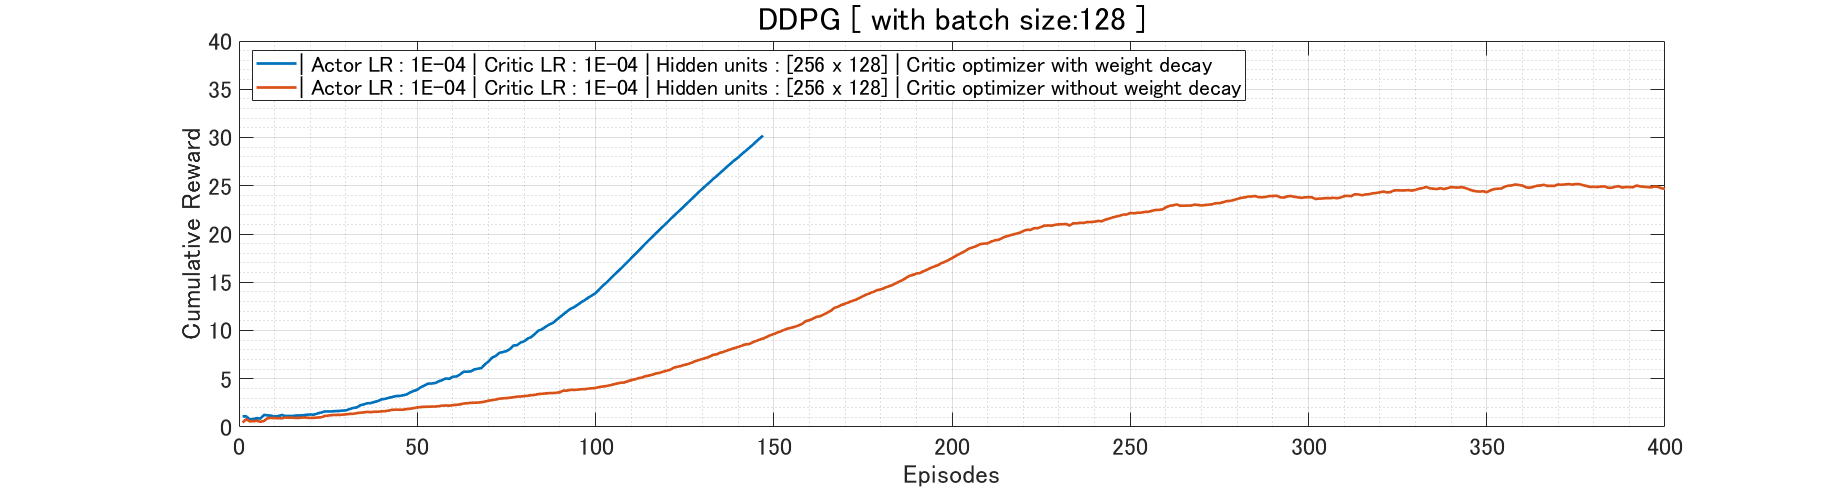
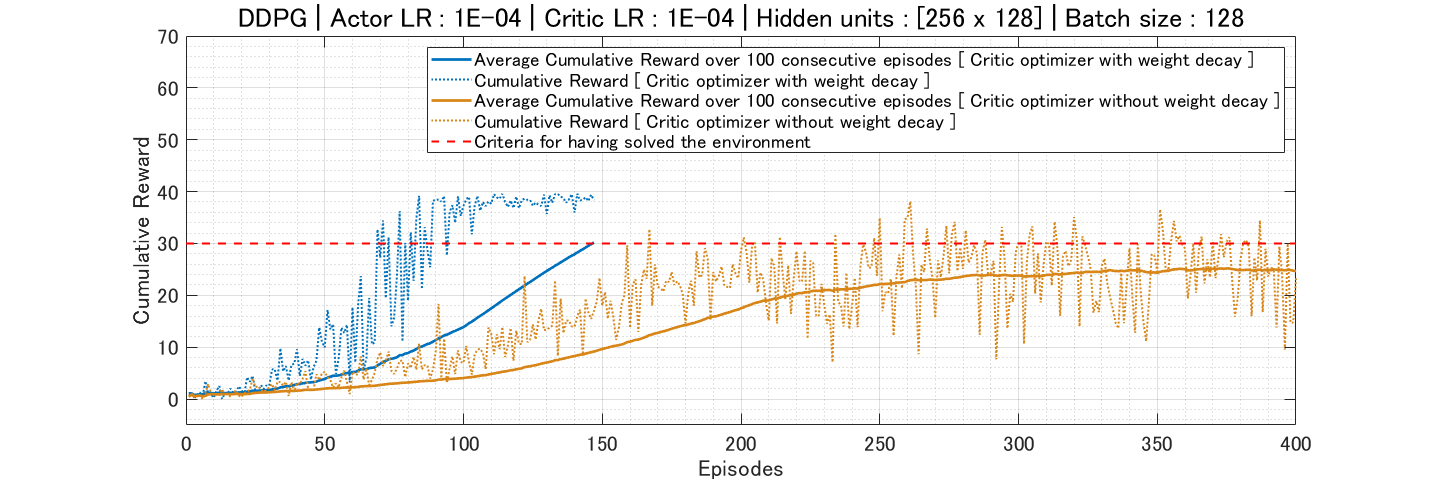
docs: Update documentation

Changed region(s): [[0.0922, 0.0, 0.9218, 1.0], [0.7374, 0.3125, 0.7682, 0.3438]]

diff --git a/DDPG/Reacher/README.md b/DDPG/Reacher/README.md
@@ -4,7 +4,12 @@
     <img src="https://user-images.githubusercontent.com/10624937/43851024-320ba930-9aff-11e8-8493-ee547c6af349.gif" height="250px">
 </p>
 
-[Reacher](https://github.com/Unity-Technologies/ml-agents/blob/master/docs/Learning-Environment-Examples.md#reacher) environment.
+## Description
+In this [environment](https://github.com/Unity-Technologies/ml-agents/blob/master/docs/Learning-Environment-Examples.md#reacher), a double-jointed arm can move to target locations. A reward of +0.1 is provided for each step that the agent's hand is in the goal location. Thus, the goal of the agent is to maintain its position at the target location for as many time steps as possible.
+
+The observation space consists of 33 variables corresponding to position, rotation, velocity, and angular velocities of the arm. Each action is a vector with four numbers, corresponding to torque applicable to two joints. Every entry in the action vector should be a number between -1 and 1.
+
+The task is episodic, and in order to solve the environment, agent must get an average score of +30 over 100 consecutive episodes.
 
 ## Environment setup (for Linux)
 
@@ -49,8 +54,8 @@ $ python test.py
 ```
 
 # Result
-This environment is solved in 47 episodes by [DDPG](https://github.com/dganbold/deep_reinforcement_learning/blob/master/DDPG/agent/DDPG.py) with [hyperparameters](https://github.com/dganbold/deep_reinforcement_learning/blob/master/DDPG/config/UnityML_Agent.py). [[score history]](../scores/Reacher_DDPG_1.0E-04_1.0E-04_256_1.0E-03_128.csv).
+This environment is solved in 147 episodes by [DDPG](https://github.com/dganbold/deep_reinforcement_learning/blob/master/DDPG/agent/DDPG.py) with [hyperparameters](https://github.com/dganbold/deep_reinforcement_learning/blob/master/DDPG/config/UnityML_Agent.py). [[score history]](../scores/Reacher_DDPG_1.0E-04_1.0E-04_256_1.0E-03_128.csv).<br />
 See the detailed project report from [Report.md](./docs/Report.md) file.
 <p align="center">
-    <img src="./scores/Reacher_DDPG_1.0E-04_1.0E-04_256_1.0E-03_128.png" height="350">
+    <img src="./docs/best_score_history.png" height="260">
 </p>

diff --git a/DDPG/Reacher/docs/Report.md b/DDPG/Reacher/docs/Report.md
@@ -58,20 +58,20 @@ To use Ornstein-Uhlenbeck noise which sampled from Normal Distribution instead o
 Reference code from [https://github.com/floodsung/DDPG/blob/master/ou_noise.py]
 
 <p align="center">
-    <img src="ou_noise_modification.png" height="230">
+    <img src="ou_noise_modification.png" height="260">
 </p>
 
 ### Attempt 3
 To use some weight decay in critic optimizer.
 
 <p align="center">
-    <img src="critic_optimizer_with_weight_decay.png" height="230">
+    <img src="critic_optimizer_with_weight_decay.png" height="260">
 </p>
 
 # Result
-The environment is solved in 47 episodes by [DDPG](https://github.com/dganbold/deep_reinforcement_learning/blob/master/DDPG/agent/DDPG.py) with [hyperparameters](https://github.com/dganbold/deep_reinforcement_learning/blob/master/DDPG/config/UnityML_Agent.py). [[score history]](../scores/Reacher_DDPG_1.0E-04_1.0E-04_256_1.0E-03_128.csv).
+The environment is solved in 147 episodes by [DDPG](https://github.com/dganbold/deep_reinforcement_learning/blob/master/DDPG/agent/DDPG.py) with [hyperparameters](https://github.com/dganbold/deep_reinforcement_learning/blob/master/DDPG/config/UnityML_Agent.py). [[score history]](../scores/Reacher_DDPG_1.0E-04_1.0E-04_256_1.0E-03_128.csv).
 <p align="center">
-    <img src="../scores/Reacher_DDPG_1.0E-04_1.0E-04_256_1.0E-03_128.png" height="350">
+    <img src="best_score_history.png" height="260">
 </p>
 
 # Future work
